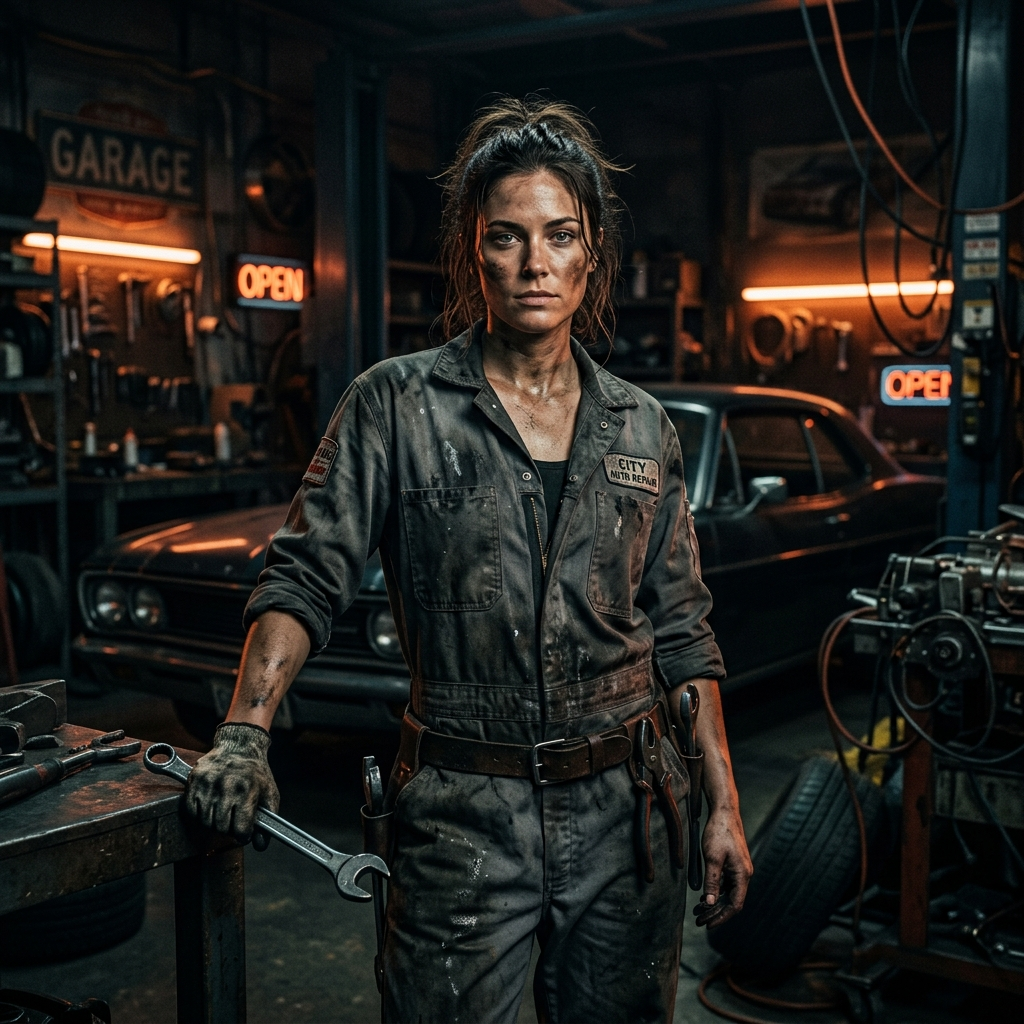
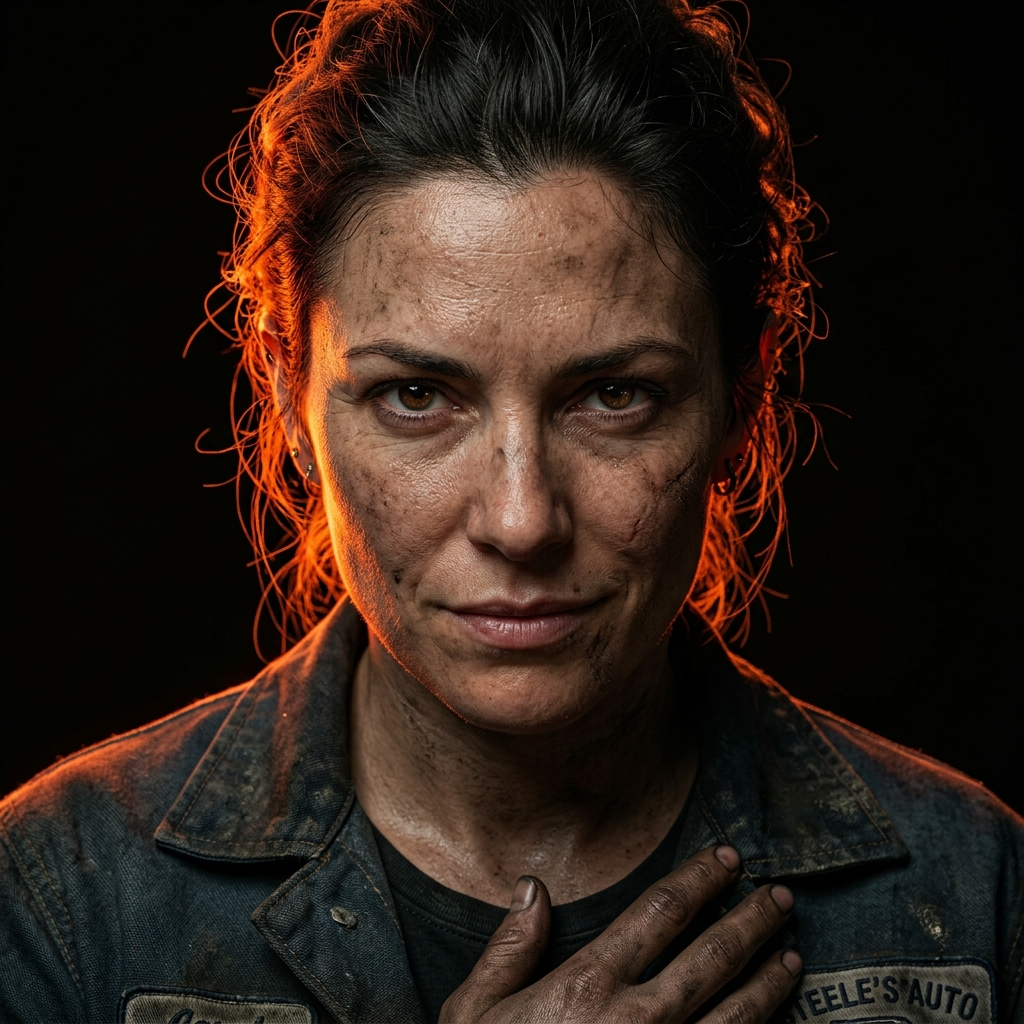
feat(ui): augment hero parallax with ar radar and wheel scanners, update female portrait to isolated studio shot

diff --git a/src/components/hero-section.tsx b/src/components/hero-section.tsx
@@ -219,8 +219,34 @@ export function HeroSection() {
           style={{ x: layer2X, y: layer2Y }}
         >
           <div className="relative w-[65vw] max-w-[1200px] aspect-[16/9]">
+            {/* Top Left/Right Corner Reticles */}
             <div className="absolute top-1/4 left-1/4 w-8 h-8 border-t-2 border-l-2 border-primary/40" />
             <div className="absolute bottom-1/4 right-1/4 w-8 h-8 border-b-2 border-r-2 border-primary/40" />
+
+            {/* AR Radar Sweep */}
+            <div className="absolute top-[25%] left-[20%] w-24 h-24 border border-primary/20 rounded-full overflow-hidden">
+              <div className="absolute top-1/2 left-1/2 w-full h-full border-t border-primary/60 origin-top-left animate-[spin_4s_linear_infinite]" style={{ background: 'conic-gradient(from 0deg at 0 0, rgba(255,69,0,0.4) 0deg, transparent 60deg)' }} />
+              <div className="absolute top-1/2 left-1/2 -translate-x-1/2 -translate-y-1/2 w-1 h-1 bg-primary rounded-full" />
+              <div className="absolute top-1/2 left-0 w-full h-[1px] bg-primary/20" />
+              <div className="absolute top-0 left-1/2 w-[1px] h-full bg-primary/20" />
+            </div>
+
+            {/* Rear Wheel AR Scanner */}
+            <div className="absolute bottom-[20%] right-[15%] flex flex-col items-center">
+              <div className="w-16 h-16 border-2 border-primary/40 rounded-full animate-[spin_3s_linear_infinite] relative">
+                <div className="absolute top-0 left-1/2 -translate-x-1/2 w-1 h-3 bg-primary" />
+                <div className="absolute top-1/2 left-1/2 -translate-x-1/2 -translate-y-1/2 w-8 h-8 border border-primary/60 rounded-full animate-[ping_2s_ease-out_infinite]" />
+              </div>
+              <span className="font-mono text-[8px] text-primary mt-2 tracking-widest bg-black/80 px-2 py-1 rounded backdrop-blur border border-primary/20">TRAC_CTRL : ON</span>
+            </div>
+            
+            {/* Front Wheel AR Scanner */}
+            <div className="absolute bottom-[25%] left-[25%] flex flex-col items-center">
+              <div className="w-12 h-12 border border-dashed border-primary/40 rounded-full animate-[spin_4s_linear_infinite_reverse] relative">
+                <div className="absolute inset-2 border-t border-primary/60 rounded-full animate-pulse" />
+              </div>
+              <span className="font-mono text-[8px] text-primary mt-2 tracking-widest bg-black/80 px-2 py-1 rounded backdrop-blur border border-primary/20">STEER_ANGLE : -2°</span>
+            </div>
           </div>
         </motion.div>
 